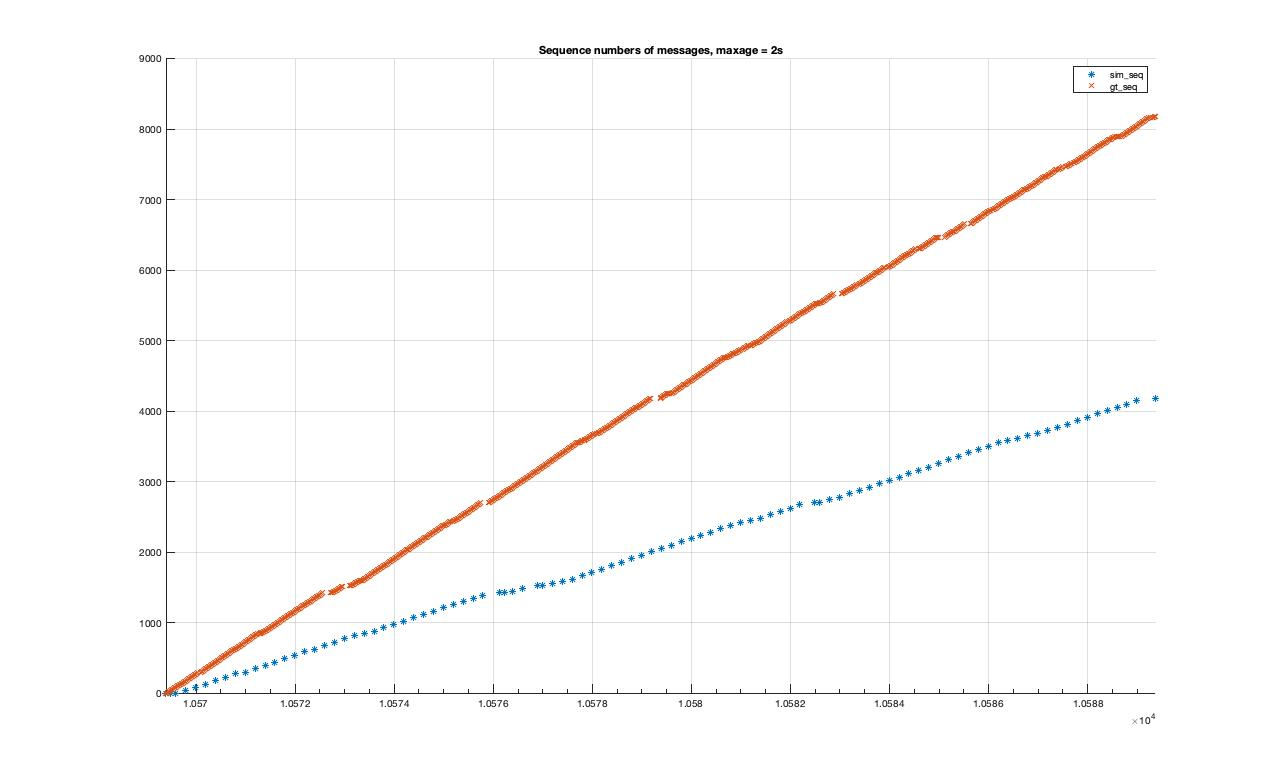
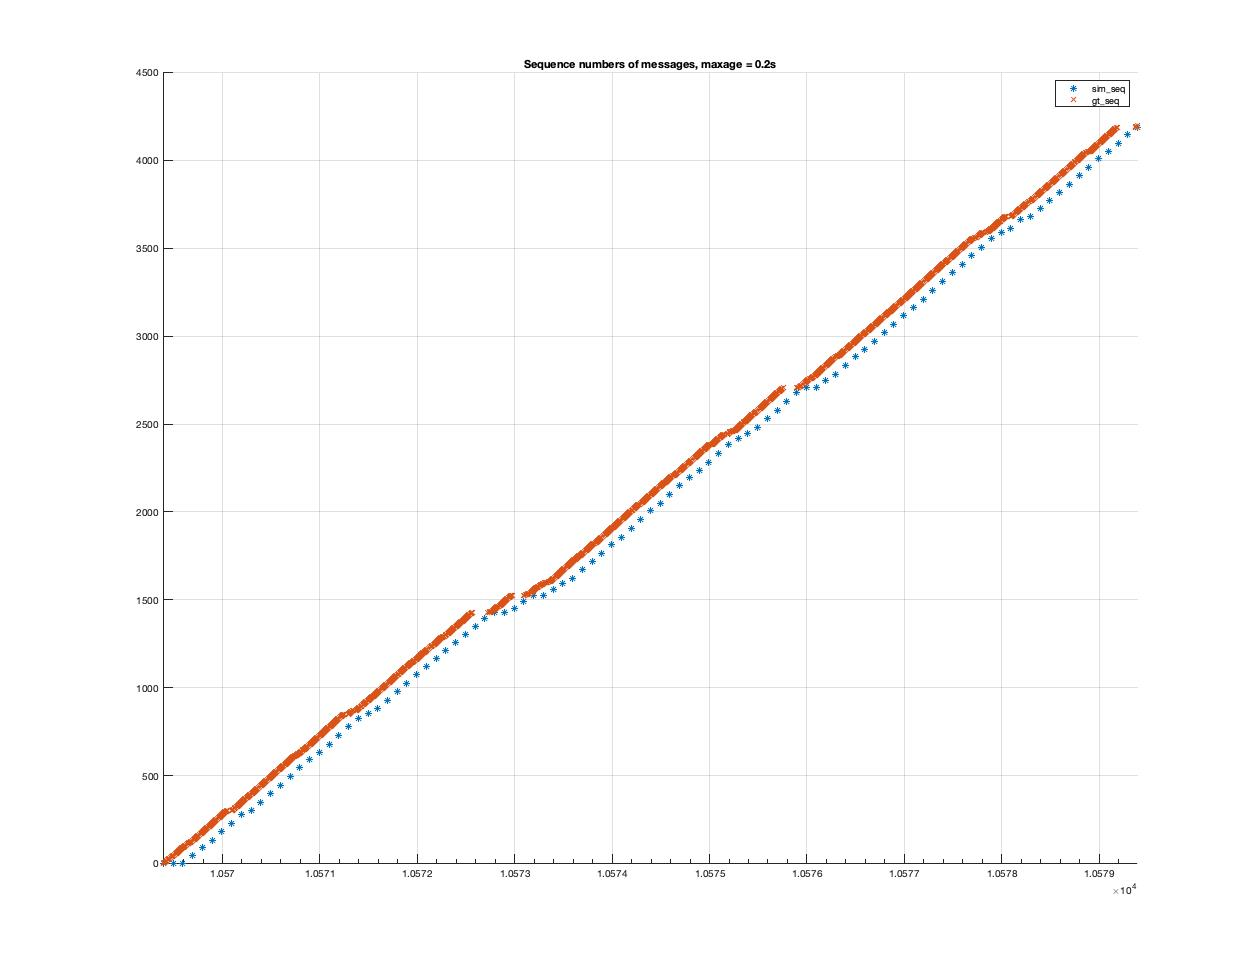
fixed m script bug

diff --git a/server/validate_rbmq_output.m b/server/validate_rbmq_output.m
@@ -2,7 +2,7 @@ clear;
 format long
 
 maxage = 2
-outputs = 'outputs_maxage200ms.csv';
+outputs = 'outputs_maxage2000ms.csv';
 gt_data = 'ur_robot.csv';
 %Get data that is sent to the rabbitmq
 ground_truth = readtable(gt_data);
@@ -44,7 +44,7 @@ hold off
 % simulation
 
 % first convert the sim time to the gt time
-sim_time = processed_data{:, 1} + ground_truth{seqno+1, 1};
+sim_time = processed_data{:, 1} + ground_truth{seqno(1)+1, 1};
 
 figure
 hold on
